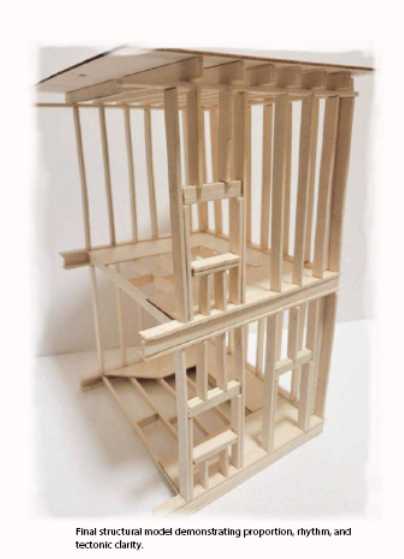
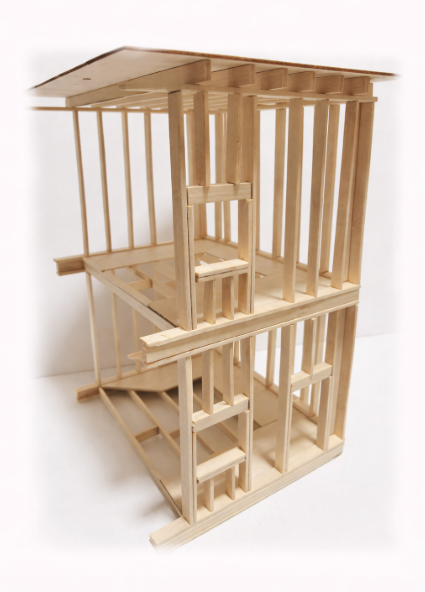
Add framing4 and framing5 side by side to Final Structure section

Changed region(s): [[0.0594, 0.0608, 0.9505, 1.0], [0.2673, 0.4866, 0.297, 0.517]]

diff --git a/project-33.html b/project-33.html
@@ -138,6 +138,14 @@
                         <img src="img/project3/framing3.png" alt="Final Structure" class="w-full h-auto mix-blend-multiply">
                     </div>
                 </div>
+                <div class="grid grid-cols-2 gap-4 md:gap-8">
+                    <div class="shadow-lg overflow-hidden rounded-none md:rounded-sm bg-[#F8F8F5]">
+                        <img src="img/project3/framing4.jpg" alt="Final Structure Model View 1" class="w-full h-full object-contain mix-blend-multiply">
+                    </div>
+                    <div class="shadow-lg overflow-hidden rounded-none md:rounded-sm bg-[#F8F8F5]">
+                        <img src="img/project3/framing5.png" alt="Final Structure Model View 2" class="w-full h-full object-contain mix-blend-multiply">
+                    </div>
+                </div>
             </div>
         </div>
 
